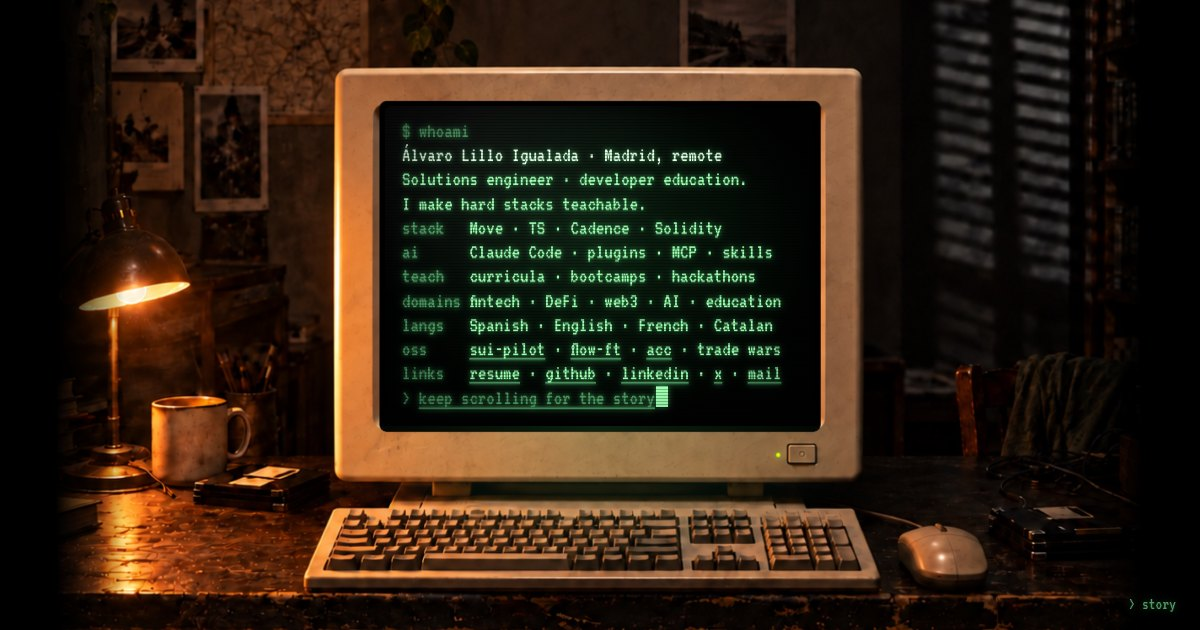
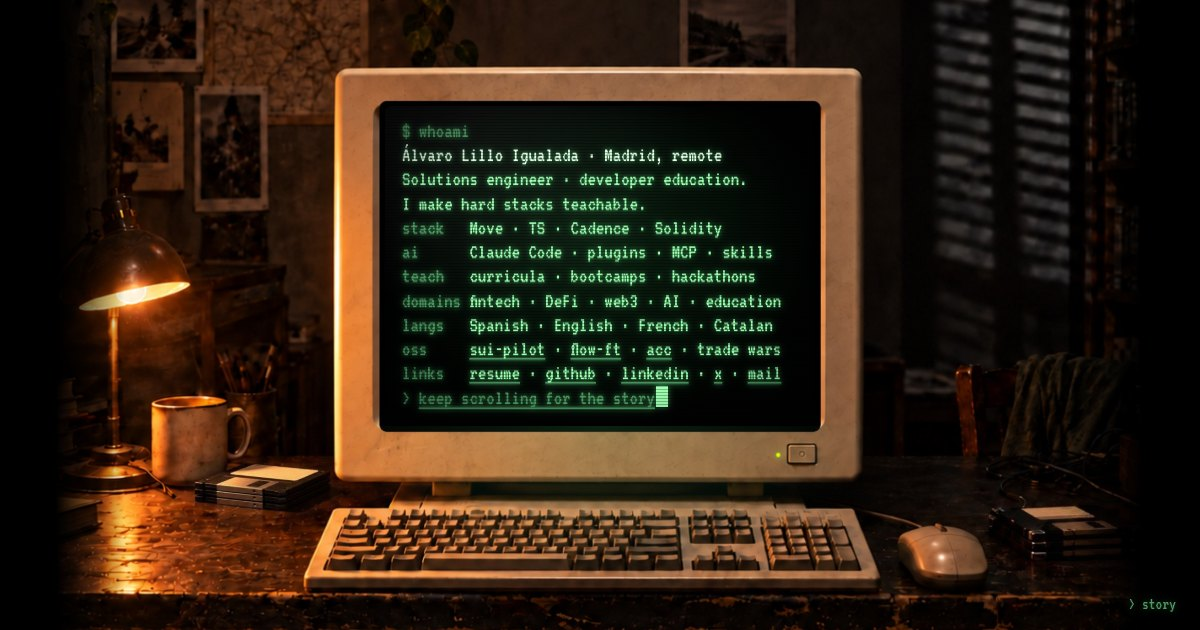
Retouch the floppy disks in the room photo
Both stacks of floppy disks in assets/room.jpg were regenerated with Nano Banana
Pro from 512px context crops, aligned to the original (offset search on the
pixels outside the object box, best match at 0,0) and pasted back through a
feathered mask. Everything outside the two boxes is pixel-identical to the
previous photo; the measured screen rectangle is unchanged. tools/retouch-room.py
records the procedure; the social card is recaptured.

Changed region(s): [[0.1542, 0.7238, 0.2775, 0.8143], [0.8325, 0.7841, 0.925, 0.8444]]

diff --git a/tools/retouch-room.py b/tools/retouch-room.py
@@ -1,0 +1,50 @@
+"""One-off retouch of assets/room.jpg (2026-09-16): the two stacks of floppy disks were regenerated.
+
+How it was done, so it can be repeated for another object:
+1. Cut a 512x512 context crop around each object with sips (offsets below).
+2. Ask Nano Banana Pro through the Higgsfield CLI to change only that object, with the crop as image 1
+   and a reference photo of the real object as image 2:
+     higgsfield generate create nano_banana_pro --prompt "..." --image-references crop.jpg \
+       --image-references reference.png --aspect_ratio 1:1 --resolution 1k --wait --json
+3. Run this script: it downsizes each edit to the crop size, aligns it to the original by brute-force
+   offset search on the pixels OUTSIDE the object box, and pastes only the box back through a feathered
+   mask. Everything outside the box stays pixel-identical to the original photo.
+Needs Pillow: python3 -m venv /tmp/venv && /tmp/venv/bin/pip install pillow && /tmp/venv/bin/python tools/retouch-room.py
+Inputs are expected in the working directory: room.jpg (original), left-edit.png, right-edit.png.
+"""
+from PIL import Image, ImageFilter, ImageChops, ImageStat
+room = Image.open('room.jpg').convert('RGB')
+def patch(edit_path, ox, oy, box, feather=12, search=6):
+    """Paste the floppy region of an edited 512-crop back into the room at (ox, oy).
+    box = (l, t, r, b) in crop coordinates. The edit is aligned by brute-force offset search on the
+    pixels OUTSIDE the box, then blended through a feathered mask."""
+    edit = Image.open(edit_path).convert('RGB').resize((512, 512), Image.LANCZOS)
+    orig = room.crop((ox, oy, ox + 512, oy + 512))
+    # alignment: minimise mean abs diff outside the box
+    outside = Image.new('L', (512, 512), 255)
+    from PIL import ImageDraw
+    ImageDraw.Draw(outside).rectangle([box[0]-20, box[1]-20, box[2]+20, box[3]+20], fill=0)
+    best = (1e9, 0, 0)
+    for dx in range(-search, search + 1):
+        for dy in range(-search, search + 1):
+            shifted = ImageChops.offset(edit, dx, dy)
+            diff = ImageChops.difference(shifted, orig).convert('L')
+            score = ImageStat.Stat(diff, mask=outside).mean[0]
+            if score < best[0]: best = (score, dx, dy)
+    score, dx, dy = best
+    base_score = ImageStat.Stat(ImageChops.difference(edit, orig).convert('L'), mask=outside).mean[0]
+    print(f'{edit_path}: outside-box mean diff {base_score:.2f} -> {score:.2f} at offset ({dx},{dy})')
+    edit = ImageChops.offset(edit, dx, dy)
+    mask = Image.new('L', (512, 512), 0)
+    ImageDraw.Draw(mask).rectangle(list(box), fill=255)
+    mask = mask.filter(ImageFilter.GaussianBlur(feather))
+    blended = Image.composite(edit, orig, mask)
+    room.paste(blended, (ox, oy))
+    return score
+patch('left-edit.png', 130, 1150, (110, 160, 405, 290))
+patch('right-edit.png', 1536, 1200, (205, 185, 512, 330))
+room.save('room-fixed.jpg', quality=88, subsampling=0, optimize=True)
+import os; print('room-fixed.jpg', os.path.getsize('room-fixed.jpg'), 'bytes')
+# proof crops for review
+room.crop((130, 1150, 642, 1662)).save('fixed-left.jpg', quality=90)
+room.crop((1536, 1200, 2048, 1712)).save('fixed-right.jpg', quality=90)

diff --git a/README.md b/README.md
@@ -5,7 +5,7 @@ Personal site of Álvaro Lillo Igualada. Static HTML, CSS and one script, no bui
 - `site/` is the published directory (see `netlify.toml`).
 - `site/index.html` is the landing page: a CRT monitor on a desk that types the page as the visitor scrolls: a welcome screen, the briefing with the contact links, then five story chapters named by stage. All story copy lives in the `<article class="chapter">` blocks; the screen is their visual twin. The screen is a fixed terminal grid of 46 columns by 12 rows on every device, so each chapter must fit that box (`tools/check-viewports.mjs` fails when one does not). ASCII art goes in `<pre>` and must be plain ASCII: VT323 has no box-drawing glyphs. The corner control (`> briefing` anywhere, `> story` on the briefing) and the meta tags carry their own copy. Without JavaScript the chapters render as a plain page.
 - `site/crt.js` drives the typing from the scroll position and switches the corner control to `> story` on the briefing. `?show=<chapter id>` renders one chapter fully typed and static (useful for screenshots and the social card).
-- `site/style.css` positions the text layer over the screen and adds the phosphor glow, scanlines and light spill. The room and the monitor are one square photo, `assets/room.jpg` (2048×2048, generated with Codex from the previous render as reference). The stage covers the viewport and is cropped around the centre of the screen; in portrait it zooms in until the screen spans 90% of the width, and in landscape it never scales past the point where the whole computer (wall above the bezel to the desk edge) fits the height, so wide displays get a narrower photo whose sides fade to black. The text layer is pinned to the black screen through `--ar` (the photo's aspect ratio) and the fractions `--sx/--sy/--sw/--sh` in `style.css`. If you regenerate the photo: set `--ar`, run `python3 tools/measure-screen.py site/assets/room.jpg 45 0.47` and paste the INSET line it prints.
+- `site/style.css` positions the text layer over the screen and adds the phosphor glow, scanlines and light spill. The room and the monitor are one square photo, `assets/room.jpg` (2048×2048, generated with Codex from the previous render as reference; the floppy disks were later retouched with Nano Banana Pro and pasted back through `tools/retouch-room.py`, so the rest of the photo is untouched). The stage covers the viewport and is cropped around the centre of the screen; in portrait it zooms in until the screen spans 90% of the width, and in landscape it never scales past the point where the whole computer (wall above the bezel to the desk edge) fits the height, so wide displays get a narrower photo whose sides fade to black. The text layer is pinned to the black screen through `--ar` (the photo's aspect ratio) and the fractions `--sx/--sy/--sw/--sh` in `style.css`. If you regenerate the photo: set `--ar`, run `python3 tools/measure-screen.py site/assets/room.jpg 45 0.47` and paste the INSET line it prints.
 - `tools/` holds dev-only checks (`pnpm -C tools install` once). `node tools/check-viewports.mjs [--sheet out.html]` loads every chapter at 17 viewports in the installed Chrome and fails on overflow, a clipped screen, a misplaced corner control or type under 15px; `--sheet` writes a single-file contact sheet of screenshots. `node tools/social-card.mjs` recaptures `site/assets/social.jpg` (1200×630) from `index.html?show=briefing`.
 - `site/resume.pdf` is the downloadable résumé, built from `profile/resume.html` with `profile/build-resume.sh`.
 - `profile/profile.md` is the source of truth for every claim on the site, the résumé and LinkedIn. Change it there first.
